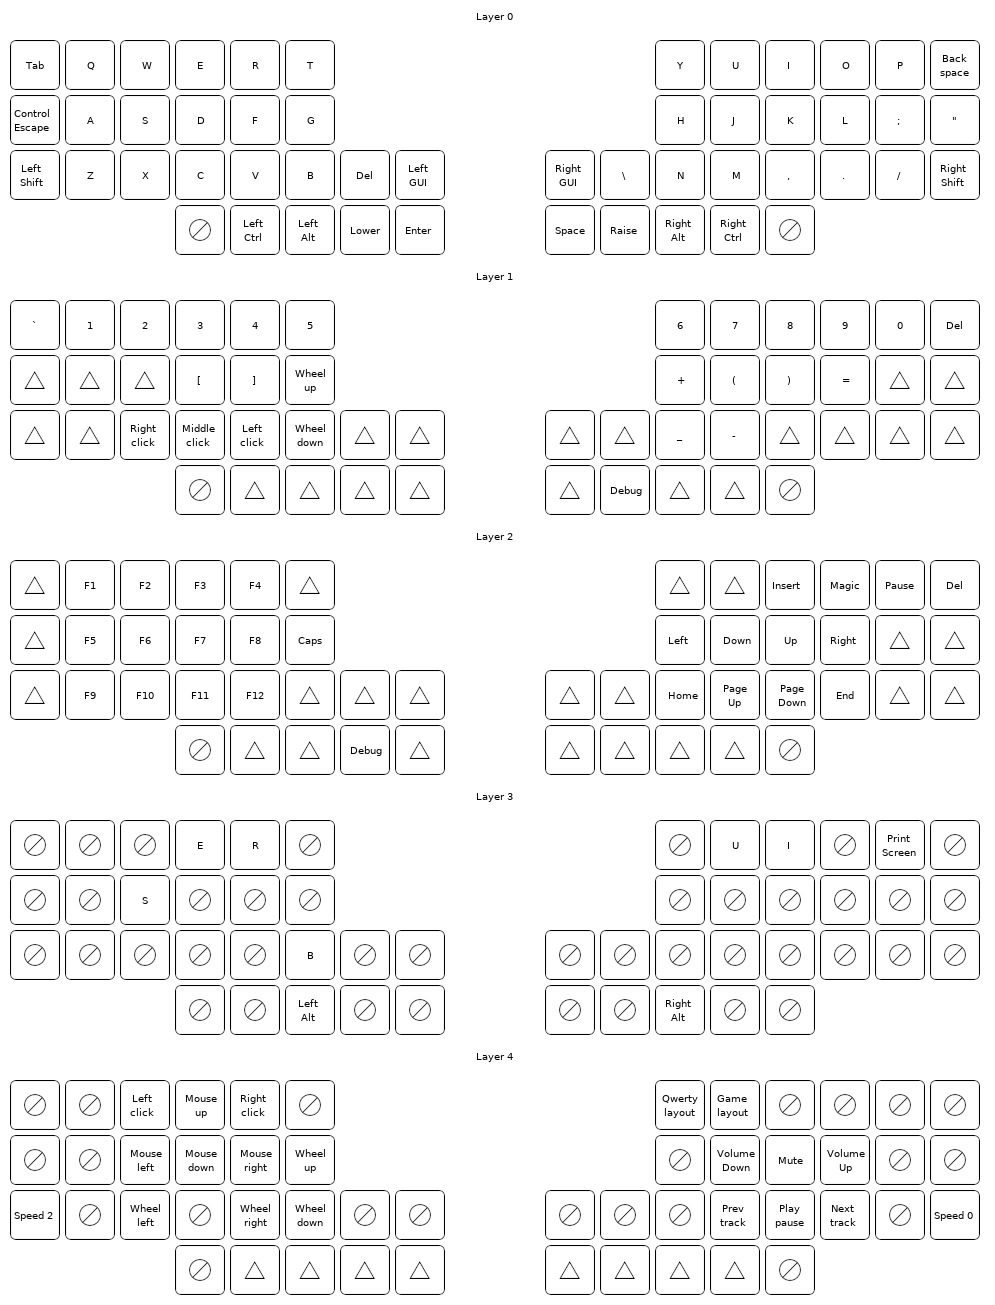
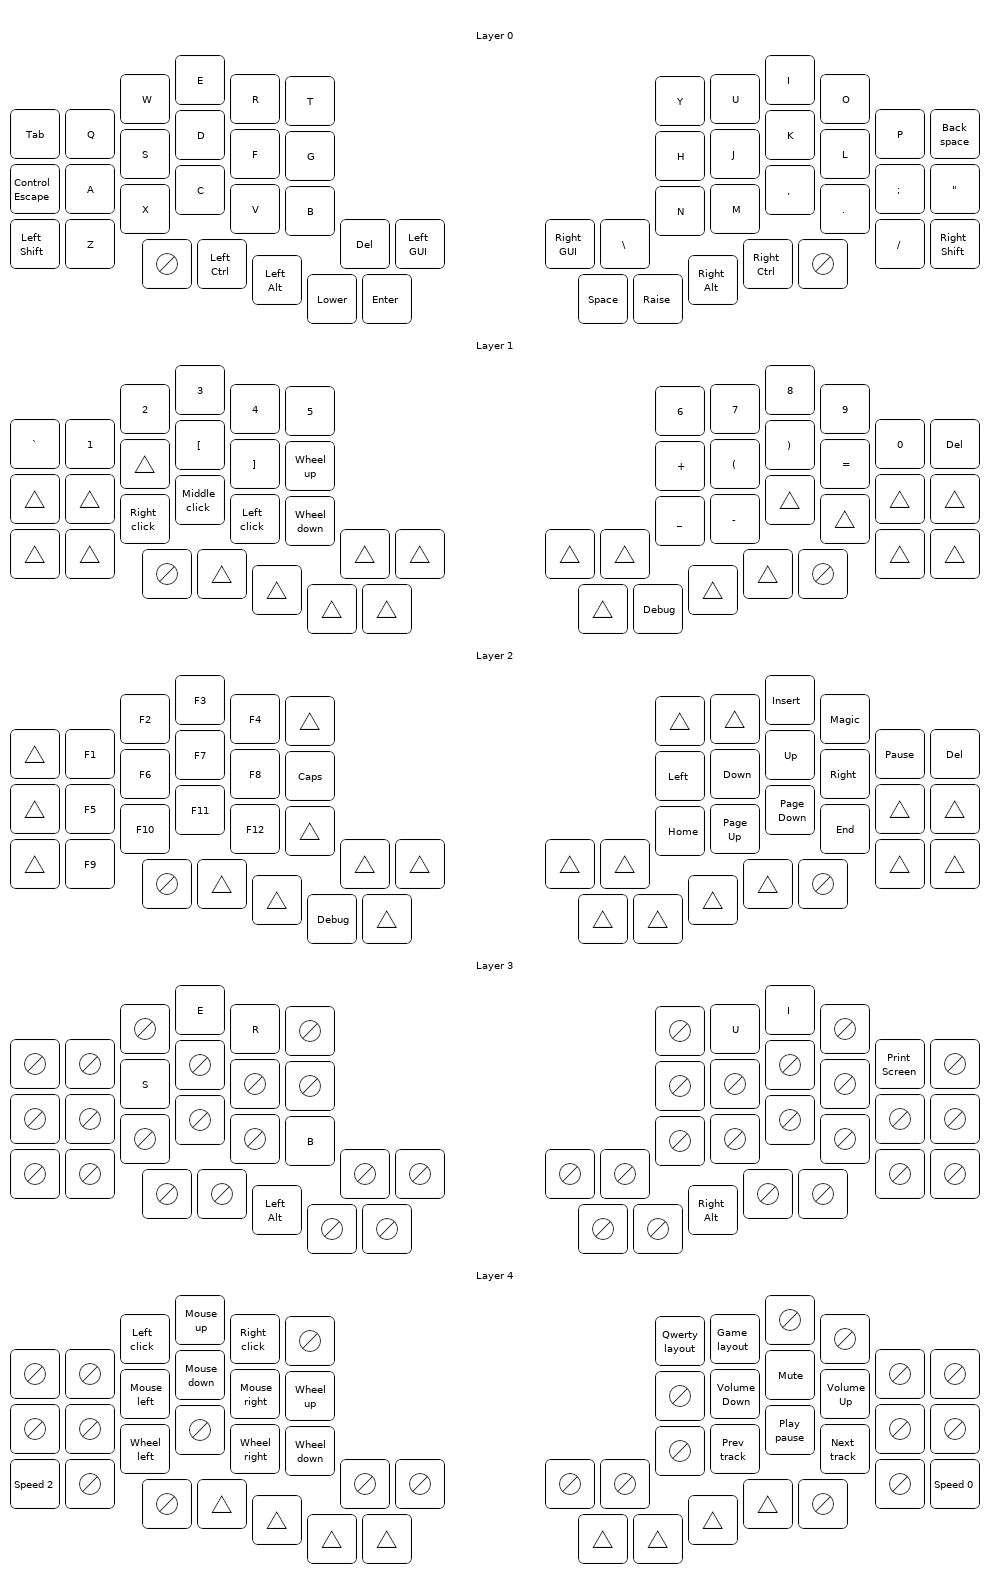
Add stagger to layout builder

diff --git a/layout_generator.py b/layout_generator.py
@@ -11,16 +11,40 @@ KEY_WIDTH = 50
 NUM_COLS = 16
 NUM_ROWS = 4
 KEYBOARD_GUTTER = 10
-TITLE_GUTTER = 30
+TITLE_GUTTER = 80
 IMAGE_PADDING = 10
 KEY_GUTTER = 5
 BOTTOM_OFFSET = 30
-BOTTOM_GAP = 100
 GAP = 100
 BIG_GAP = GAP + 4 * (KEY_WIDTH + KEY_GUTTER)
-ROW_INDENT = (KEY_WIDTH + KEY_GUTTER) * 3
+ROW_INDENT = round((KEY_WIDTH + KEY_GUTTER) * 2.4)
+ROW_OFFSET = KEY_WIDTH + KEY_GUTTER
+BOTTOM_GAP = 216
 TTF_FONT_PATH = '/usr/share/fonts/truetype/ttf-bitstream-vera/Vera.ttf'
 FONT_SIZE = 10
+
+A_KEY = 'o'
+A_GAP = ' '
+A_BIG_GAP = '	'
+A_BOTTOM_GAP = '_'
+A_END = 'n'
+A_ROW = 'r'
+A_OFFSET_1 = 1
+A_OFFSET_2 = 2
+A_OFFSET_3 = 3
+A_OFFSET_4 = 4
+A_OFFSET_5 = 5
+
+OFFSETS = {
+    1: -round(ROW_OFFSET * 0.636),
+    2: -round(ROW_OFFSET * 0.986),
+    3: -round(ROW_OFFSET * 0.636),
+    4: -round(ROW_OFFSET * 0.60),
+    5: -round(ROW_OFFSET * 0.350)
+}
+
+MAX_OFFSET = OFFSETS[max(OFFSETS, key=OFFSETS.get)] * -1
+MIN_OFFSET = OFFSETS[min(OFFSETS, key=OFFSETS.get)] * -1
 
 IMAGE_KEY_MAP = {
     'KC_TRNS': {
@@ -60,7 +84,11 @@ if args.with_base_layers:
             skip_layers.append(layer_idx)
 
 image_width = keyboard_width + IMAGE_PADDING * 2 + GAP
-image_height = keyboard_height * layer_count + (layer_count - 1) * KEYBOARD_GUTTER + (layer_count - 1) * KEY_GUTTER + IMAGE_PADDING * 2 + layer_count * TITLE_GUTTER
+image_height = keyboard_height * layer_count \
+    + (layer_count - 1) * KEYBOARD_GUTTER \
+    + IMAGE_PADDING * 2 \
+    + layer_count * TITLE_GUTTER \
+    + MIN_OFFSET - MAX_OFFSET
 
 layout_image = Image.new('RGB', (image_width, image_height), color = 'white')
 key_image = Image.open('key.png')
@@ -71,7 +99,12 @@ for keycode in IMAGE_KEY_MAP:
 draw = ImageDraw.Draw(layout_image)
 font = ImageFont.truetype(TTF_FONT_PATH, FONT_SIZE)
 
-layout_map = 'ooooo	ooooonooooo	ooooonooooooo oooooooNoooo oooooo'
+layout_map = [
+    [A_KEY], [A_KEY, A_OFFSET_1], [A_KEY, A_OFFSET_2], [A_KEY, A_OFFSET_3], [A_KEY, A_OFFSET_4], [A_BIG_GAP, A_OFFSET_4], [A_KEY, A_OFFSET_3], [A_KEY, A_OFFSET_2], [A_KEY, A_OFFSET_1], [A_KEY], [A_KEY], [A_END],
+    [A_KEY], [A_KEY, A_OFFSET_1], [A_KEY, A_OFFSET_2], [A_KEY, A_OFFSET_3], [A_KEY, A_OFFSET_4], [A_BIG_GAP, A_OFFSET_4], [A_KEY, A_OFFSET_3], [A_KEY, A_OFFSET_2], [A_KEY, A_OFFSET_1], [A_KEY], [A_KEY], [A_END],
+    [A_KEY], [A_KEY, A_OFFSET_1], [A_KEY, A_OFFSET_2], [A_KEY, A_OFFSET_3], [A_KEY, A_OFFSET_4], [A_KEY], [A_KEY], [A_GAP], [A_KEY], [A_KEY, A_OFFSET_4], [A_KEY, A_OFFSET_3], [A_KEY, A_OFFSET_2], [A_KEY, A_OFFSET_1], [A_KEY], [A_KEY], [A_END, A_ROW, A_OFFSET_3],
+    [A_KEY, A_OFFSET_3], [A_KEY, A_OFFSET_5], [A_KEY], [A_KEY], [A_BOTTOM_GAP], [A_KEY], [A_KEY, A_OFFSET_5], [A_KEY, A_OFFSET_3], [A_KEY, A_OFFSET_3], [A_KEY], [A_KEY]
+]
 
 def draw_key(x, y, keycode):
     layout_image.paste(key_image, (x, y))
@@ -95,8 +128,9 @@ def draw_key(x, y, keycode):
         draw.text((text_x, text_y), text, fill=(0,0,0,128), font=font, align='center')
 
 x = IMAGE_PADDING
-y = IMAGE_PADDING
+y = IMAGE_PADDING + MAX_OFFSET
 
+offset = 0
 layer_count = 0
 
 for layer_idx in range(0, len(keyboard['layers'])):
@@ -115,31 +149,31 @@ for layer_idx in range(0, len(keyboard['layers'])):
     key_idx = 0
 
     for text in layer:
-        action = layout_map[key_idx]
+        actions = layout_map[key_idx]
         key_idx += 1
 
-        if action == 's':
-            continue
+        draw_key(x, y + offset, text)
 
-        draw_key(x, y, text)
+        offset = 0
 
-        if action == 'o':
-            x += KEY_WIDTH + KEY_GUTTER
-        elif action == ' ':
-            x += KEY_WIDTH + GAP
-        elif action == '	':
-            x += KEY_WIDTH + BIG_GAP
-        elif action == '_':
-            x += BOTTOM_GAP
-        elif action == 'n' or action == 'N':
-            x = IMAGE_PADDING
-            y += KEY_WIDTH + KEY_GUTTER
-
-            if action == 'N':
+        for action in actions:
+            if action == A_KEY:
+                x += KEY_WIDTH + KEY_GUTTER
+            elif action == A_GAP:
+                x += KEY_WIDTH + GAP
+            elif action == A_BIG_GAP:
+                x += KEY_WIDTH + BIG_GAP
+            elif action == A_BOTTOM_GAP:
+                x += BOTTOM_GAP
+            elif action == A_END:
+                x = IMAGE_PADDING
+                y += KEY_WIDTH + KEY_GUTTER
+                offset = 0
+            elif action == A_ROW:
                 x += ROW_INDENT
-        elif action == 'B':
-            x = IMAGE_PADDING + KEY_WIDTH + BOTTOM_OFFSET
-            y += KEY_WIDTH + KEY_GUTTER
+            elif action in [A_OFFSET_1, A_OFFSET_2, A_OFFSET_3, A_OFFSET_4, A_OFFSET_5]:
+                offset = OFFSETS[action]
+
 
     x = IMAGE_PADDING
     y += KEYBOARD_GUTTER + KEY_WIDTH + KEY_GUTTER
